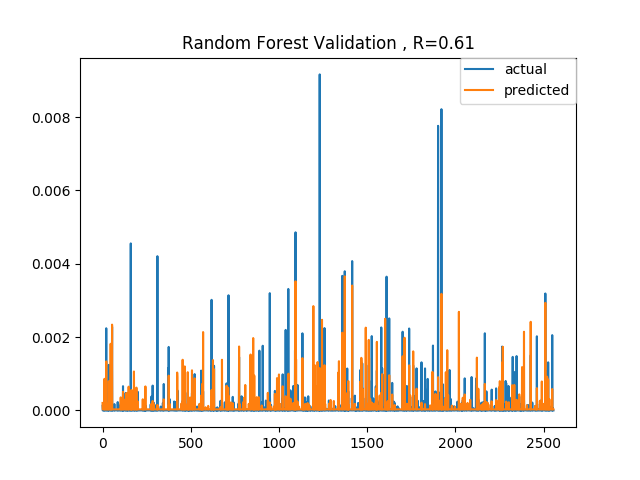
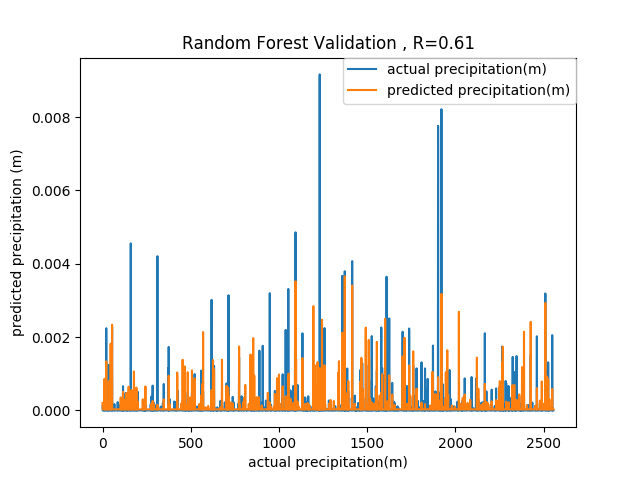
Second Commit!

Changed region(s): [[0.5312, 0.125, 0.9062, 0.2188], [0.0, 0.3125, 0.0312, 0.6875], [0.375, 0.9375, 0.625, 1.0]]

diff --git a/RandomForestPrecipitation.py b/RandomForestPrecipitation.py
@@ -1,94 +1,119 @@
-# This script is to apply machine learnin  to the ECMWF data
+"""In this script we  apply the Random Forest machine learning   method with
+  ECMWF data to predict Precipitation at a  location near Dallas, Texas (latitude:
+  32.8 and Longitude : -97").
 
-#To load mat-file
+This is just a simple code to apply  the random Forest method. I will publish a Jupiter notebook
+repository  showing further data analysis and implimenting other machine learning methods.
+
+The Data is in mat format.
+  """
+
+
+# load the mat-file
 
 import h5py
 import numpy as np
 import matplotlib.pyplot as plt
 
+# Read the mat file 
 mat=h5py.File('ECMWFLSP4Pydata.mat','r')
 
-
+#Extract  predictor and predictand variables 
 X=mat['InRain']
 Y=mat['OutRain']
+
+# Names of Predictors  and the shape of the traing and output data
 names=mat['usednames']
 print(X.shape)
 print(Y.shape)
-print(type(X))
-print(type(names))
+#print(type(X))
+#print(type(names))
 
 # Transpose the matrix and shange the shape of Y [ravel]
 X=np.transpose(X)
 Y=np.transpose(Y)
 Y=np.ravel(Y)
+
+# The shape  of  the data the Random Forest  wants 
 print(X.shape)
 print(Y.shape)
 
 # Plot and see the pollen Data
+fig1=plt.figure()
 plt.plot(Y,label="actual")
 #plt.show()
 
-# Importing the mat file works!
+"""Importing the mat file done!  Now let me apply  the Random Forest  regression"""
 
-# Now let me apply  The Random Forest  regression
+#Import the random Forest libraries
 
 from sklearn.ensemble import RandomForestRegressor
-#from sklearn.datasets import make_regression 
+from sklearn.model_selection import train_test_split
+from sklearn.datasets import make_regression 
 
 #Apply the random Forest
 regr = RandomForestRegressor(max_depth=100, random_state=0)
 mdl=regr.fit(X,Y)
 
+# Prediting  using the Same predictors data  we used in the traning 
 ytest=mdl.predict(X)
 
+"""Calculate the correlation coefficient between the  supervising
+variable and the predicted variable"""
+
 cc=np.corrcoef(Y,ytest)
-print(cc)
-print(ytest.shape)
-plt.figure 
-plt.plot(ytest, label="predicted")
+
+print('The correlation coefficeint between the predicted  precipitation and the  supervising precipitations is: ' "%.2f" %  cc[0,1])
+      
+#print(ytest.shape)
+#fig2=plt.figure()
+plt.plot(ytest, label="predicted") 
 plt.legend(bbox_to_anchor=(1, 1), loc=1, borderaxespad=0.)
 plt.title('Random Forest estimate, R=' "%.2f" %  cc[0,1])
 plt.savefig('RFpredict.png')
+plt.xlabel('Day of year')
+plt.ylabel('Precipitation(m)')
 plt.show()
+plt.savefig('RFTrainng')
 
+# Let us now apply apply Cross Validation 
 
-# Apply Cross Validation 
-from sklearn.model_selection import train_test_split
 X_train, X_test, y_train, y_test = train_test_split(X, Y, random_state=0)
 
-# predict and test the training 
+#predict and test the training 
 mdl=regr.fit(X_train,y_train)
 ypr=mdl.predict(X_train)
 
 cctr=np.corrcoef(ypr,y_train)
-print(cctr)
+#print(cctr)
 
 #predict and test for the validation data
 ytestR=mdl.predict(X_test)
 ccvR=np.corrcoef(ytestR,y_test)
-print(ccvR)
-plt.figure 
+#print(ccvR)
+#fig3=plt.figure() 
 #scatter plot of the validation and traing
-plt.plot([0, 0.006], [0,0.006])
+plt.plot([0, 0.006], [0,0.006]) # the  line passing through [0,0] and [1,1] 
 plt.scatter(y_train, ypr, c="b", alpha=0.5,label='training')
 plt.scatter(ytestR, y_test, c="r", alpha=0.5, label='validation')
 plt.xlim( (0, 0.006) )
 plt.ylim((0,0.006))
 plt.title('Indipendent Validation, R=' "%.2f" %  ccvR[0,1])
 plt.legend(bbox_to_anchor=(1, 1), loc=1, borderaxespad=0.)
-plt.xlabel('actual')
-plt.ylabel('predicted')
+plt.xlabel('actual precipitation(m)')
+plt.ylabel('predicted precipitation (m)')
 plt.savefig('RFscatterplot.png')
 plt.show()
 
-
+#line plot for cross-validation
 plt.figure
-plt.plot(y_test,label='actual')
-plt.plot(ytestR, label="predicted")
+plt.plot(y_test,label='actual precipitation(m)')
+plt.plot(ytestR, label="predicted precipitation(m)")
 plt.legend(bbox_to_anchor=(1, 1), loc=1, borderaxespad=0.)
 plt.title('Random Forest Validation , R=' "%.2f" %  ccvR[0,1])
+plt.xlabel('actual precipitation(m)')
+plt.ylabel('predicted precipitation (m)')
 plt.savefig('RFValidation.png')
 plt.show()
 
 
-print(Y.shape)
